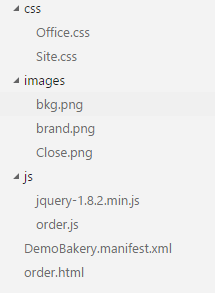
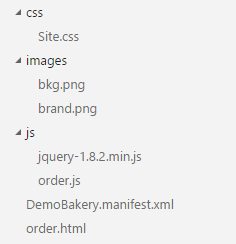
Korekce struktury výsledného projektu

Changed region(s): [[0.0558, 0.5164, 0.8093, 0.8893], [0.0558, 0.0, 0.4465, 0.5451], [0.1116, 0.8893, 0.3907, 0.9754]]

diff --git a/Pekarna Bakery/1 - Outlook Add-in/README.md b/Pekarna Bakery/1 - Outlook Add-in/README.md
@@ -87,7 +87,6 @@ Jakmile máme manifest hotový, začneme sestavovat samotnou funkctionalitu apli
 			<meta http-equiv="X-UA-Compatible" content="IE=Edge" />
 			<title></title>
 			<script src="js/jquery-1.8.2.min.js" type="text/javascript"></script>
-			<link href="css/Office.css" rel="stylesheet" type="text/css" />
 			<script src="https://appsforoffice.microsoft.com/lib/1/hosted/office.js" type="text/javascript"></script>
 			<script src="js/order.js" type="text/javascript"></script>
 			<link href="css/Site.css" rel="stylesheet" type="text/css" />
@@ -137,8 +136,8 @@ Jakmile máme manifest hotový, začneme sestavovat samotnou funkctionalitu apli
 Tímto máme jádro aplikace hotové a ještě doplníme podpůrné soubory, které jsou pro její správný běh nutné.
 
 1. Do složky **js** zkopírujte soubor **jquery-1.8.2.min.js** z projektu Web-Start (složka *Scripts*).
-1. Vytvořte novou složku **css** a zkopírujte do ní soubory **Office.css** a **Site.css** z projektu Web-Start (složka *Content*).
-1. Vytvořte novou složku **images** a zkopírujte do ní soubory **bkg.png**, **brand.png** a **Close.png**.
+1. Vytvořte novou složku **css** a zkopírujte do ní soubor **Site.css** z projektu Web-Start (složka *Content*).
+1. Vytvořte novou složku **images** a zkopírujte do ní soubory **bkg.png** a **brand.png**.
 
 Výsledná struktura by měla vypadat takto:
 
